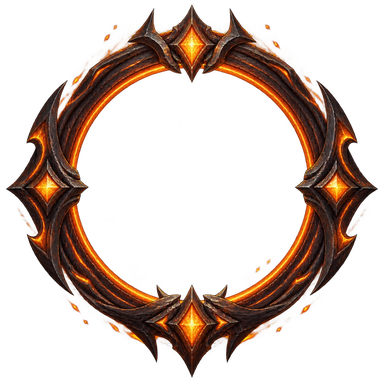
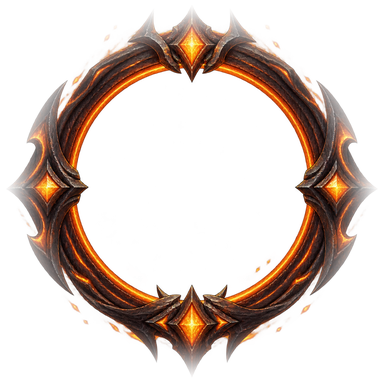
Render the clown frame as a single AI-generated hat and feather the ember edge

diff --git a/web/style.css b/web/style.css
@@ -690,17 +690,37 @@ a { color: var(--mint); }
 }
 .avatar[data-frame="frame_ember"] img.avatar-frame-art,
 .header-avatar[data-frame="frame_ember"] img.avatar-frame-art {
-  -webkit-mask-image: radial-gradient(circle, transparent 0 36.76%, #000 36.77% 88%, transparent 100%);
-  mask-image: radial-gradient(circle, transparent 0 36.76%, #000 36.77% 88%, transparent 100%);
+  -webkit-mask-image: radial-gradient(circle, transparent 0 36.76%, #000 36.77%);
+  mask-image: radial-gradient(circle, transparent 0 36.76%, #000 36.77%);
+}
+.avatar[data-frame="frame_clown"],
+.header-avatar[data-frame="frame_clown"] {
+  border-color: transparent;
+  background: transparent;
+  box-shadow: none;
+}
+.header-avatar[data-frame="frame_clown"] img.avatar-frame-art {
+  display: none;
+}
+.avatar[data-frame="frame_ember"].has-frame-art::before,
+.header-avatar[data-frame="frame_ember"].has-frame-art::before {
+  display: none;
 }
 .avatar[data-frame="frame_clown"] img.avatar-frame-art,
 .header-avatar[data-frame="frame_clown"] img.avatar-frame-art {
+  width: auto;
+  height: 110%;
+  top: 0;
+  transform: translate(-50%, -35%);
   filter:
     drop-shadow(0 0 0.22rem rgba(255, 210, 110, 0.8))
     drop-shadow(0 0 0.62rem rgba(255, 174, 60, 0.48))
     drop-shadow(0 0 1.15rem rgba(255, 120, 20, 0.22));
   -webkit-mask-image: none;
   mask-image: none;
+}
+.standing-avatar[data-frame="frame_clown"] img.avatar-frame-art {
+  height: 90%;
 }
 .avatar[data-frame="frame_clown"].has-frame-art::before,
 .header-avatar[data-frame="frame_clown"].has-frame-art::before {

diff --git a/web/sw.js b/web/sw.js
@@ -1,13 +1,13 @@
 "use strict";
 
 // Bump this version whenever any shell asset below changes.
-const CACHE_VERSION = "gl-shell-v37-2026-10-30";
-// Previous cache generations: gl-shell-v36-2026-10-30, gl-shell-v35-2026-10-30, gl-shell-v34-2026-10-29, gl-shell-v33-2026-10-29, gl-shell-v32-2026-10-28, gl-shell-v31-2026-10-28, gl-shell-v30-2026-10-28, gl-shell-v29-2026-10-28, gl-shell-v28-2026-10-28, gl-shell-v27-2026-10-28, gl-shell-v26-2026-10-28, gl-shell-v25-2026-10-27
+const CACHE_VERSION = "gl-shell-v44-2026-10-30";
+// Previous cache generations: gl-shell-v43-2026-10-30, gl-shell-v42-2026-10-30, gl-shell-v41-2026-10-30, gl-shell-v40-2026-10-30, gl-shell-v39-2026-10-30, gl-shell-v38-2026-10-30, gl-shell-v37-2026-10-30, gl-shell-v36-2026-10-30, gl-shell-v35-2026-10-30, gl-shell-v34-2026-10-29, gl-shell-v33-2026-10-29, gl-shell-v32-2026-10-28, gl-shell-v31-2026-10-28, gl-shell-v30-2026-10-28, gl-shell-v29-2026-10-28, gl-shell-v28-2026-10-28, gl-shell-v27-2026-10-28, gl-shell-v26-2026-10-28, gl-shell-v25-2026-10-27
 const SHELL = [
   "/",
   "/index.html",
-  "/style.css?v=37",
-  "/app.js?v=37",
+  "/style.css?v=44",
+  "/app.js?v=44",
   "/manifest.webmanifest",
   "/icons/icon-192.png",
   "/icons/icon-512.png",

diff --git a/web/index.html b/web/index.html
@@ -13,7 +13,7 @@
   <link rel="manifest" href="/manifest.webmanifest">
   <link rel="icon" href="/icons/icon-192.png" type="image/png">
   <link rel="apple-touch-icon" href="/icons/apple-touch-icon.png">
-  <link rel="stylesheet" href="/style.css?v=37">
+  <link rel="stylesheet" href="/style.css?v=44">
 </head>
 <body>
   <a class="skip-link" href="#app-shell">跳到主要内容</a>
@@ -878,6 +878,6 @@ async function flush(token) {
   <div id="toast" class="toast" role="status" aria-live="polite" hidden></div>
   <p id="live-status" class="sr-only" role="status" aria-live="polite" aria-atomic="true"></p>
   <noscript><p class="noscript">需要启用 JavaScript 才能使用联赛页面。</p></noscript>
-  <script src="/app.js?v=37" defer></script>
+  <script src="/app.js?v=44" defer></script>
 </body>
 </html>

diff --git a/tests/test_pwa_design.py b/tests/test_pwa_design.py
@@ -146,18 +146,20 @@ class PWADesignMotionTests(unittest.TestCase):
         self.assertIn("minmax(0, 1fr)", self.css)
 
     def test_07_shell_cache_is_bumped_without_removing_previous_marker(self) -> None:
-        self.assertIn('const CACHE_VERSION = "gl-shell-v34-2026-10-29";', self.sw)
-        self.assertIn("gl-shell-v33-2026-10-29", self.sw)
-        self.assertIn("gl-shell-v32-2026-10-28", self.sw)
-        self.assertIn("gl-shell-v30-2026-10-28", self.sw)
-        self.assertIn("gl-shell-v29-2026-10-28", self.sw)
-        self.assertIn("gl-shell-v28-2026-10-28", self.sw)
-        self.assertIn("gl-shell-v27-2026-10-28", self.sw)
-        self.assertIn("gl-shell-v26-2026-10-28", self.sw)
-        self.assertIn("gl-shell-v25-2026-10-27", self.sw)
+        self.assertIn('const CACHE_VERSION = "gl-shell-v44-2026-10-30";', self.sw)
+        self.assertIn("gl-shell-v43-2026-10-30", self.sw)
+        self.assertIn("gl-shell-v42-2026-10-30", self.sw)
+        self.assertIn("gl-shell-v41-2026-10-30", self.sw)
+        self.assertIn("gl-shell-v40-2026-10-30", self.sw)
+        self.assertIn("gl-shell-v39-2026-10-30", self.sw)
+        self.assertIn("gl-shell-v38-2026-10-30", self.sw)
+        self.assertIn("gl-shell-v37-2026-10-30", self.sw)
+        self.assertIn("gl-shell-v36-2026-10-30", self.sw)
+        self.assertIn("gl-shell-v35-2026-10-30", self.sw)
+        self.assertIn("gl-shell-v34-2026-10-29", self.sw)
         self.assertIn("caches.delete", self.sw)
-        self.assertIn("/style.css?v=34", self.sw)
-        self.assertIn("/app.js?v=34", self.sw)
+        self.assertIn("/style.css?v=44", self.sw)
+        self.assertIn("/app.js?v=44", self.sw)
 
     def test_10_ember_frame_art_is_scoped_to_owned_avatars(self) -> None:
         self.assertIn('frame_ember: "/assets/frames/frame_ember.png"', self.js)
@@ -165,9 +167,9 @@ class PWADesignMotionTests(unittest.TestCase):
         self.assertIn('container.querySelector("img.avatar-frame-art")', self.js)
         self.assertIn('container.querySelector("img:not(.avatar-frame-art)")', self.js)
         self.assertIn("state.collection?.equipped?.frame_id", self.js)
-        self.assertIn('const ownFrameId = member.is_me ? resolveFrameId(member.frame) : "";', self.js)
+        self.assertIn('const frameId = resolveFrameId(member.frame_id || member.frame);', self.js)
         self.assertIn(
-            "paintAvatar(avatar, member.avatar_url, member.name || member.display_name, ownFrameId);",
+            "paintAvatar(avatar, member.avatar_url, member.name || member.display_name, frameId);",
             self.js,
         )
         self.assertIn("detail.frame_id || detail.frame", self.js)

diff --git a/tests/test_pwa.py b/tests/test_pwa.py
@@ -147,8 +147,8 @@ class PWAStaticTests(unittest.TestCase):
         html = (WEB_ROOT / "index.html").read_text(encoding="utf-8")
         js = (WEB_ROOT / "app.js").read_text(encoding="utf-8")
         self.assertIn('rel="manifest"', html)
-        self.assertIn('href="/style.css?v=34"', html)
-        self.assertIn('src="/app.js?v=34"', html)
+        self.assertIn('href="/style.css?v=44"', html)
+        self.assertIn('src="/app.js?v=44"', html)
         self.assertIn('id="icon-theme-options"', html)
         self.assertIn('name="icon_theme"', html)
         self.assertIn(">经典<", html)
@@ -327,7 +327,7 @@ class PWAStaticTests(unittest.TestCase):
         self.assertIn("url.pathname.startsWith(\"/avatars/\")", sw)
         self.assertIn("caches.delete", sw)
         self.assertIn("/assets/frames/frame_ember.png", sw)
-        self.assertIn('const CACHE_VERSION = "gl-shell-v34-2026-10-29";', sw)
+        self.assertIn('const CACHE_VERSION = "gl-shell-v44-2026-10-30";', sw)
         # Historical cache generation comment is kept for rollback context.
         self.assertIn("gl-shell-v33-2026-10-29", sw)
         self.assertIn("gl-shell-v32-2026-10-28", sw)
@@ -336,10 +336,10 @@ class PWAStaticTests(unittest.TestCase):
         self.assertIn("gl-shell-v26-2026-10-28", sw)
         self.assertIn("gl-shell-v25-2026-10-27", sw)
         html = (WEB_ROOT / "index.html").read_text(encoding="utf-8")
-        self.assertIn("/style.css?v=34", sw)
-        self.assertIn("/app.js?v=34", sw)
-        self.assertIn('href="/style.css?v=34"', html)
-        self.assertIn('src="/app.js?v=34"', html)
+        self.assertIn("/style.css?v=44", sw)
+        self.assertIn("/app.js?v=44", sw)
+        self.assertIn('href="/style.css?v=44"', html)
+        self.assertIn('src="/app.js?v=44"', html)
         self.assertNotIn("/style.css?v=28", sw)
         self.assertNotIn("/app.js?v=28", sw)
         self.assertNotIn('href="/style.css?v=28"', html)

diff --git a/ghost_league/badge.py b/ghost_league/badge.py
@@ -77,6 +77,7 @@ class FrameVisual:
     glow_color: str | None
     glow_opacity: float = 0.34
     top_margin: int = 4
+    hat_only: bool = False
     # Fraction of the image's half-size that contains visible pixels.  The
     # ember art has a tall flame at the top, so this keeps the whole ring
     # inside the card instead of letting the viewport crop it.
@@ -102,6 +103,7 @@ FRAME_VISUALS: dict[str, FrameVisual] = {
     "frame_clown": FrameVisual(
         asset="frame_clown.png",
         glow_color=None,
+        hat_only=True,
     ),
 }
 
@@ -435,11 +437,18 @@ def _frame_markup(frame_id: object, geometry: BadgeGeometry) -> tuple[str, str]:
     half = size / 2
     cx = geometry.icon_center_x + visual.center_dx
     cy = geometry.icon_center_y + visual.center_dy
-    min_cy = half * visual.content_half_ratio + visual.top_margin
-    if cy < min_cy:
-        cy = min_cy
-    x = cx - half
-    y = cy - half
+    if visual.hat_only:
+        size = geometry.icon_size * 1.5
+        half = size / 2
+        cy = geometry.icon_y + geometry.icon_size * 0.04 - half
+        y = cy - half
+        x = cx - half
+    else:
+        min_cy = half * visual.content_half_ratio + visual.top_margin
+        if cy < min_cy:
+            cy = min_cy
+        x = cx - half
+        y = cy - half
     glow_radius = half * FRAME_GLOW_SCALE
 
     defs = ""
